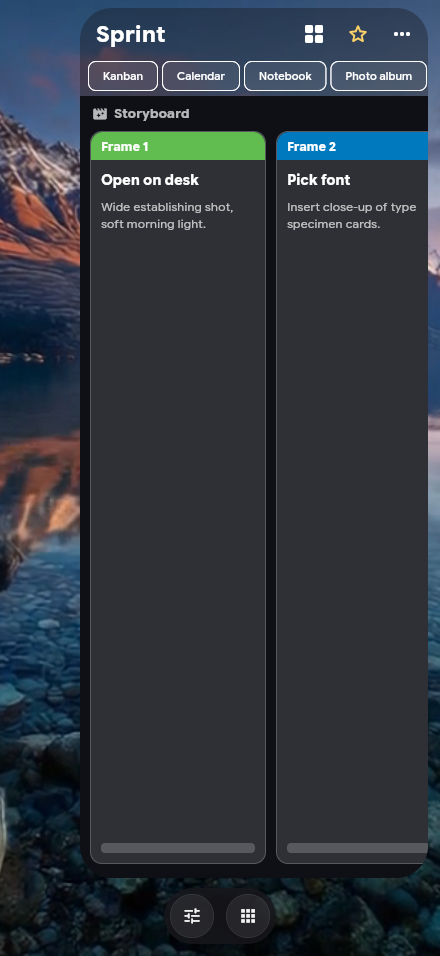
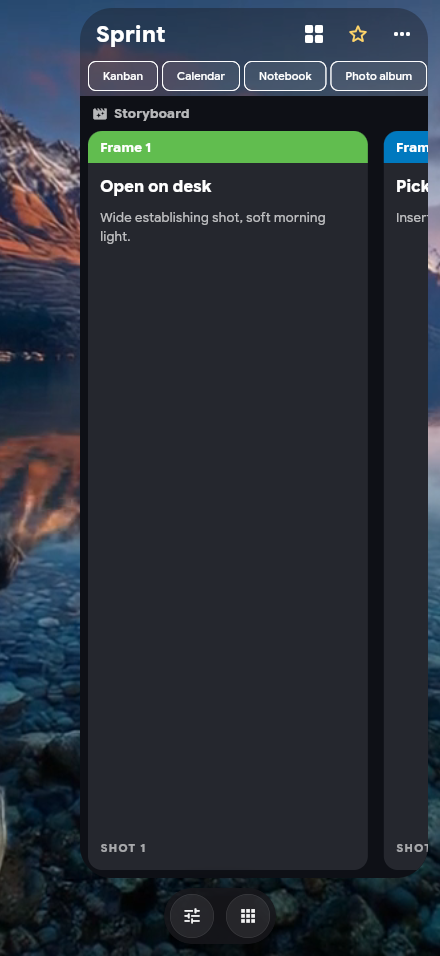
Storyboard 85% peek frames; vision masonry with harness images
- Drop faux scrollbar bars on story frames; PageView matches kanban listFraction
- Vision board: two-column masonry tall/short tiles with harness image backgrounds

diff --git a/lib/features/smartgen/sg_views.dart b/lib/features/smartgen/sg_views.dart
@@ -945,13 +945,26 @@ class _SgAlbumState extends State<SgAlbum> {
   }
 }
 
-class SgStory extends StatelessWidget {
+class SgStory extends StatefulWidget {
   const SgStory({super.key, required this.store, required this.onOpen});
   final SgStore store;
   final void Function(SgCard) onOpen;
+  /// Same peek math as kanban lists: ~85% frame, next frame peeks.
+  static const double frameFraction = 0.85;
+  @override
+  State<SgStory> createState() => _SgStoryState();
+}
+
+class _SgStoryState extends State<SgStory> {
+  late final PageController _pages = PageController(viewportFraction: SgStory.frameFraction);
+  @override
+  void dispose() {
+    _pages.dispose();
+    super.dispose();
+  }
   @override
   Widget build(BuildContext context) {
-    final cards = store.board!.cards;
+    final cards = widget.store.board!.cards;
     return ColoredBox(
       color: const Color(0xFF0E1016),
       child: Column(crossAxisAlignment: CrossAxisAlignment.stretch, children: [
@@ -964,50 +977,54 @@ class SgStory extends StatelessWidget {
           ]),
         ),
         Expanded(
-          child: LayoutBuilder(builder: (context, box) {
-            final h = box.maxHeight;
-            return ListView.builder(
-              scrollDirection: Axis.horizontal,
-              padding: const EdgeInsets.fromLTRB(10, 4, 10, 14),
+          child: ScrollConfiguration(
+            behavior: const SgScroll(),
+            child: PageView.builder(
+              controller: _pages,
               itemCount: cards.length,
+              padEnds: false,
               itemBuilder: (_, i) {
                 final c = cards[i];
-                return GestureDetector(
-                  onTap: () => onOpen(c),
-                  child: Container(
-                    width: 176,
-                    height: h - 18,
-                    margin: const EdgeInsets.only(right: 10),
-                    decoration: BoxDecoration(
-                      color: const Color(0x22FFFFFF),
-                      borderRadius: BorderRadius.circular(12),
-                      border: Border.all(color: const Color(0x33FFFFFF)),
-                    ),
-                    child: Column(crossAxisAlignment: CrossAxisAlignment.stretch, children: [
-                      Container(
-                        height: 28,
-                        alignment: Alignment.centerLeft,
-                        padding: const EdgeInsets.symmetric(horizontal: 10),
-                        decoration: BoxDecoration(color: Color(c.color | 0xFF000000), borderRadius: const BorderRadius.vertical(top: Radius.circular(12))),
-                        child: Text('Frame ${i + 1}', style: appFont(fontSize: 12, fontWeight: FontWeight.w700, color: Colors.white)),
+                // Same inset as kanban columns so the next frame peeks ~15%.
+                return Padding(
+                  padding: const EdgeInsets.fromLTRB(8, 4, 8, 8),
+                  child: GestureDetector(
+                    onTap: () => widget.onOpen(c),
+                    child: DecoratedBox(
+                      decoration: BoxDecoration(
+                        color: const Color(0xCC2A2D35),
+                        borderRadius: BorderRadius.circular(14),
                       ),
-                      Expanded(
-                        child: Padding(
-                          padding: const EdgeInsets.all(10),
-                          child: Column(crossAxisAlignment: CrossAxisAlignment.start, children: [
-                            Text(c.title, maxLines: 3, overflow: TextOverflow.ellipsis, style: appFont(fontSize: 14, fontWeight: FontWeight.w700, color: Colors.white)),
-                            const SizedBox(height: 8),
-                            Expanded(child: Text(c.description.isEmpty ? 'Beat notes…' : c.description, maxLines: 20, overflow: TextOverflow.ellipsis, style: appFont(fontSize: 12, color: Colors.white70))),
-                          ]),
+                      child: Column(crossAxisAlignment: CrossAxisAlignment.stretch, children: [
+                        Container(
+                          height: 32,
+                          alignment: Alignment.centerLeft,
+                          padding: const EdgeInsets.symmetric(horizontal: 12),
+                          decoration: BoxDecoration(
+                            color: Color(c.color | 0xFF000000),
+                            borderRadius: const BorderRadius.vertical(top: Radius.circular(14)),
+                          ),
+                          child: Text('Frame ${i + 1}', style: appFont(fontSize: 13, fontWeight: FontWeight.w700, color: Colors.white)),
                         ),
-                      ),
-                      Container(height: 10, margin: const EdgeInsets.fromLTRB(10, 0, 10, 10), decoration: BoxDecoration(color: const Color(0x33FFFFFF), borderRadius: BorderRadius.circular(4))),
-                    ]),
+                        Expanded(
+                          child: Padding(
+                            padding: const EdgeInsets.fromLTRB(12, 12, 12, 14),
+                            child: Column(crossAxisAlignment: CrossAxisAlignment.start, children: [
+                              Text(c.title, maxLines: 3, overflow: TextOverflow.ellipsis, style: appFont(fontSize: 16, fontWeight: FontWeight.w700, color: Colors.white)),
+                              const SizedBox(height: 10),
+                              Text(c.description.isEmpty ? 'Beat notes…' : c.description, maxLines: 12, overflow: TextOverflow.ellipsis, style: appFont(fontSize: 13, color: Colors.white70)),
+                              const Spacer(),
+                              Text('SHOT ${i + 1}', style: appFont(fontSize: 11, fontWeight: FontWeight.w700, color: const Color(0x99FFFFFF), letterSpacing: 1.4)),
+                            ]),
+                          ),
+                        ),
+                      ]),
+                    ),
                   ),
                 );
               },
-            );
-          }),
+            ),
+          ),
         ),
       ]),
     );
@@ -1021,7 +1038,6 @@ class SgVision extends StatelessWidget {
   @override
   Widget build(BuildContext context) {
     final cards = store.board!.cards;
-    final sizes = [(160.0, 130.0), (120.0, 100.0), (140.0, 150.0), (110.0, 90.0), (150.0, 120.0)];
     return ColoredBox(
       color: const Color(0xFF141018),
       child: Column(crossAxisAlignment: CrossAxisAlignment.stretch, children: [
@@ -1034,36 +1050,80 @@ class SgVision extends StatelessWidget {
           ]),
         ),
         Expanded(
-          child: SingleChildScrollView(
-            padding: const EdgeInsets.fromLTRB(10, 4, 10, 14),
-            child: Wrap(spacing: 8, runSpacing: 8, children: [
-              for (var i = 0; i < cards.length; i++)
-                GestureDetector(
-                  onTap: () => onOpen(cards[i]),
-                  child: Transform.rotate(
-                    angle: i.isEven ? -0.03 : 0.04,
-                    child: Container(
-                      width: sizes[i % sizes.length].$1,
-                      height: sizes[i % sizes.length].$2,
-                      decoration: BoxDecoration(
-                        color: const Color(0x28FFFFFF),
-                        borderRadius: BorderRadius.circular(8),
-                        border: Border.all(color: Color(cards[i].color | 0xFF000000), width: 2),
-                        boxShadow: const [BoxShadow(color: Color(0x66000000), blurRadius: 8, offset: Offset(0, 3))],
-                      ),
-                      padding: const EdgeInsets.all(8),
-                      child: Column(crossAxisAlignment: CrossAxisAlignment.start, children: [
-                        Container(height: 6, width: 36, decoration: BoxDecoration(color: Color(cards[i].color | 0xFF000000), borderRadius: BorderRadius.circular(3))),
-                        const SizedBox(height: 8),
-                        Expanded(child: Text(cards[i].title, maxLines: 4, overflow: TextOverflow.ellipsis, style: appFont(fontSize: 13, fontWeight: FontWeight.w700, color: Colors.white))),
-                      ]),
-                    ),
-                  ),
-                ),
-            ]),
-          ),
+          child: LayoutBuilder(builder: (context, box) {
+            // Two-column masonry: alternate tall / short tiles, image bg when available.
+            final gap = 8.0;
+            final colW = (box.maxWidth - 20 - gap) / 2;
+            final left = <Widget>[];
+            final right = <Widget>[];
+            for (var i = 0; i < cards.length; i++) {
+              final tall = i.isEven;
+              final h = tall ? colW * 1.35 : colW * 0.92;
+              final tile = _visionTile(cards[i], colW, h);
+              (i.isEven ? left : right).add(Padding(padding: EdgeInsets.only(bottom: gap), child: tile));
+            }
+            return SingleChildScrollView(
+              padding: const EdgeInsets.fromLTRB(10, 4, 10, 14),
+              child: Row(
+                crossAxisAlignment: CrossAxisAlignment.start,
+                children: [
+                  SizedBox(width: colW, child: Column(children: left)),
+                  SizedBox(width: gap),
+                  SizedBox(width: colW, child: Column(children: [
+                    SizedBox(height: gap * 1.5), // stagger short column
+                    ...right,
+                  ])),
+                ],
+              ),
+            );
+          }),
         ),
       ]),
+    );
+  }
+
+  Widget _visionTile(SgCard c, double w, double h) {
+    final img = _firstImage(c);
+    return GestureDetector(
+      onTap: () => onOpen(c),
+      child: ClipRRect(
+        borderRadius: BorderRadius.circular(10),
+        child: SizedBox(
+          width: w,
+          height: h,
+          child: Stack(fit: StackFit.expand, children: [
+            if (img != null)
+              Image.memory(_bytes(img.dataUrl), fit: BoxFit.cover, gaplessPlayback: true, errorBuilder: (_, __, ___) => ColoredBox(color: Color(c.color | 0xFF000000)))
+            else
+              DecoratedBox(
+                decoration: BoxDecoration(
+                  gradient: LinearGradient(
+                    begin: Alignment.topLeft,
+                    end: Alignment.bottomRight,
+                    colors: [Color(c.color | 0xFF000000), Color.lerp(Color(c.color | 0xFF000000), Colors.black, 0.45)!],
+                  ),
+                ),
+              ),
+            const DecoratedBox(
+              decoration: BoxDecoration(
+                gradient: LinearGradient(
+                  begin: Alignment.topCenter,
+                  end: Alignment.bottomCenter,
+                  colors: [Color(0x22000000), Color(0xAA000000)],
+                ),
+              ),
+            ),
+            Padding(
+              padding: const EdgeInsets.all(10),
+              child: Column(crossAxisAlignment: CrossAxisAlignment.start, children: [
+                Container(height: 4, width: 28, decoration: BoxDecoration(color: Color(c.color | 0xFF000000), borderRadius: BorderRadius.circular(2))),
+                const Spacer(),
+                Text(c.title, maxLines: 3, overflow: TextOverflow.ellipsis, style: appFont(fontSize: 14, fontWeight: FontWeight.w700, color: Colors.white)),
+              ]),
+            ),
+          ]),
+        ),
+      ),
     );
   }
 }

diff --git a/lib/features/smartgen/sg_pane.dart b/lib/features/smartgen/sg_pane.dart
@@ -297,6 +297,31 @@ class _SgPaneState extends State<SgPane> {
             }
           });
         }
+        if (q['sg'] == 'vision') {
+          store.touch(() {
+            final pins = <(String, String)>[
+              ('Mood board', kHarnessImg_mood),
+              ('Cover shot', kHarnessImg_cover),
+              ('Desk still', kHarnessImg_desk),
+              ('City walk', kHarnessImg_city),
+              ('Sky study', kHarnessImg_sky),
+              ('Leaf detail', kHarnessImg_leaf),
+              ('Night skyline', kHarnessImg_night),
+              ('Bloom study', kHarnessImg_bloom),
+            ];
+            while (b.cards.length < pins.length) {
+              store.addCard(SgType.task);
+            }
+            for (var i = 0; i < pins.length; i++) {
+              final c = b.cards[i];
+              c.title = pins[i].$1;
+              c.color = [0xFFEB5A46, 0xFF0079BF, 0xFF61BD4F, 0xFFF2D600, 0xFFC377E0, 0xFFFF9F1A, 0xFF00C2E0, 0xFF344563][i % 8];
+              c.files
+                ..clear()
+                ..add(SgFile(id: 'vis$i', name: 'vision$i.png', dataUrl: pins[i].$2, cardId: c.id));
+            }
+          });
+        }
         if (q['sg'] == 'storyboard') {
           store.touch(() {
             final beats = [
